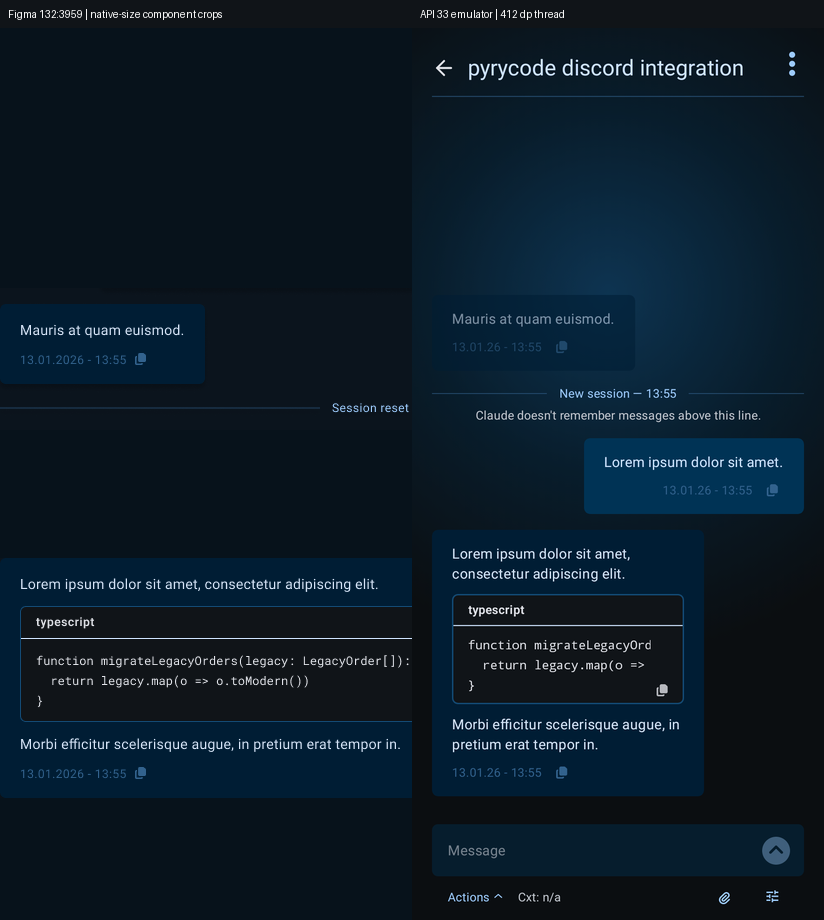
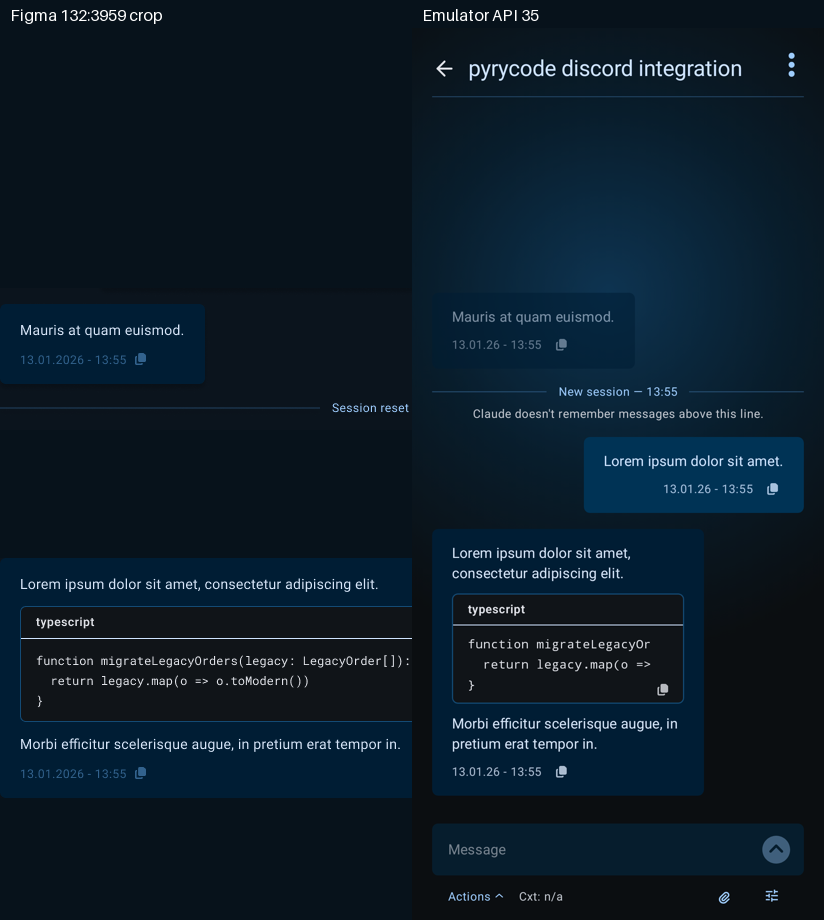
wip: checkpoint 1207 before blocker wait

diff --git a/app/src/sharedTest/java/de/pyryco/mobile/ui/conversations/thread/ThreadFrameCaptureTest.kt b/app/src/sharedTest/java/de/pyryco/mobile/ui/conversations/thread/ThreadFrameCaptureTest.kt
@@ -7,12 +7,16 @@ import androidx.compose.runtime.CompositionLocalProvider
 import androidx.compose.runtime.getValue
 import androidx.compose.runtime.mutableStateOf
 import androidx.compose.runtime.setValue
+import androidx.compose.ui.geometry.Offset
+import androidx.compose.ui.platform.ClipboardManager
+import androidx.compose.ui.platform.LocalClipboardManager
 import androidx.compose.ui.platform.LocalDensity
 import androidx.compose.ui.platform.LocalView
 import androidx.compose.ui.test.DeviceConfigurationOverride
 import androidx.compose.ui.test.ExperimentalTestApi
 import androidx.compose.ui.test.ForcedSize
 import androidx.compose.ui.test.assertIsDisplayed
+import androidx.compose.ui.test.click
 import androidx.compose.ui.test.getUnclippedBoundsInRoot
 import androidx.compose.ui.test.junit4.createComposeRule
 import androidx.compose.ui.test.onAllNodesWithText
@@ -21,6 +25,8 @@ import androidx.compose.ui.test.onNodeWithTag
 import androidx.compose.ui.test.onNodeWithText
 import androidx.compose.ui.test.performClick
 import androidx.compose.ui.test.performScrollTo
+import androidx.compose.ui.test.performTouchInput
+import androidx.compose.ui.text.AnnotatedString
 import androidx.compose.ui.unit.Density
 import androidx.compose.ui.unit.DpSize
 import androidx.compose.ui.unit.dp
@@ -37,6 +43,7 @@ import de.pyryco.mobile.data.repository.BoundaryReason
 import de.pyryco.mobile.data.repository.ThreadItem
 import de.pyryco.mobile.ui.theme.PyrycodeMobileTheme
 import kotlinx.datetime.Instant
+import org.junit.Assert.assertEquals
 import org.junit.Assert.assertTrue
 import org.junit.Rule
 import org.junit.Test
@@ -49,6 +56,19 @@ import java.util.TimeZone
 @RunWith(AndroidJUnit4::class)
 class ThreadFrameCaptureTest {
     @get:Rule val rule = createComposeRule()
+
+    private val clipboard =
+        object : ClipboardManager {
+            var copiedText: String? = null
+
+            override fun setText(annotatedString: AnnotatedString) {
+                copiedText = annotatedString.text
+            }
+
+            override fun getText(): AnnotatedString? = copiedText?.let(::AnnotatedString)
+
+            override fun hasText(): Boolean = copiedText != null
+        }
 
     private var state by mutableStateOf(ThreadUiState("frame", "pyrycode discord integration", isPromoted = true))
     private var thinking by mutableStateOf(false)
@@ -64,7 +84,10 @@ class ThreadFrameCaptureTest {
         rule.setContent {
             DeviceConfigurationOverride(DeviceConfigurationOverride.ForcedSize(DpSize(width.dp, height.dp))) {
                 val density = LocalDensity.current
-                CompositionLocalProvider(LocalDensity provides Density(density.density, fontScale)) {
+                CompositionLocalProvider(
+                    LocalDensity provides Density(density.density, fontScale),
+                    LocalClipboardManager provides clipboard,
+                ) {
                     PyrycodeMobileTheme(darkTheme = true) {
                         composeView = LocalView.current
                         ThreadScreen(
@@ -244,6 +267,11 @@ class ThreadFrameCaptureTest {
         assertTrue(back.right <= overflow.left)
         assertTrue(messageRegion.height > 0.dp)
         assertTrue(copy.left >= messageRegion.left && copy.right <= messageRegion.right)
+        // Tap outside the 16dp visual row: Compose must still route the pointer to copy at 1.5x text.
+        rule.onNodeWithContentDescription(string(R.string.cd_thread_copy_message)).performTouchInput {
+            click(Offset(center.x, bottom + 14.dp.toPx()))
+        }
+        assertEquals(message.message.content, clipboard.copiedText)
         capture("320x640-large-text")
         rule.onNodeWithContentDescription(string(R.string.cd_more_actions)).performClick()
         rule.onNodeWithText(string(R.string.thread_overflow_channel_info)).assertIsDisplayed()

diff --git a/app/src/main/java/de/pyryco/mobile/ui/conversations/components/MessageMetaRow.kt b/app/src/main/java/de/pyryco/mobile/ui/conversations/components/MessageMetaRow.kt
@@ -23,7 +23,6 @@ import androidx.compose.ui.semantics.Role
 import androidx.compose.ui.text.AnnotatedString
 import androidx.compose.ui.unit.dp
 import de.pyryco.mobile.R
-import de.pyryco.mobile.ui.theme.LocalStaticDarkPalette
 import kotlinx.datetime.Instant
 import kotlinx.datetime.TimeZone
 import kotlinx.datetime.toJavaLocalDate
@@ -35,13 +34,13 @@ import java.util.Locale
 private val MetaRowSpacing = 8.dp
 private val CopyGlyphWidth = 11.dp
 
-// Keep the visible meta row at the design's 16dp. The glyph's horizontal hit area grows to 23dp;
-// a taller target would add height to every bubble and shift the next row.
+// Keep the visible meta row at the design's 16dp. Compose expands clickable pointer hit testing
+// toward its minimum touch target without enlarging layout; a compact-width pointer test covers it.
 private val CopyTouchHorizontalPadding = 6.dp
 private val CopyTouchVerticalPadding = 2.dp
 
-// Other palettes retain the previous alpha-based contrast treatment. The fixed dark reference uses
-// `inversePrimary` directly for the designed #32628D tint.
+// The Figma inverse-primary tint has insufficient contrast on either fixed-dark bubble. Derive
+// de-emphasis from the host's M3 on-container role so both bubbles retain readable metadata.
 private const val META_CONTENT_ALPHA = 0.80f
 
 /**
@@ -133,12 +132,7 @@ internal fun MessageMetaRow(
     modifier: Modifier = Modifier,
 ) {
     // One colour for both children: the control inherits the label's tint through the ambient.
-    val metaColor =
-        if (LocalStaticDarkPalette.current) {
-            MaterialTheme.colorScheme.inversePrimary
-        } else {
-            LocalContentColor.current.copy(alpha = META_CONTENT_ALPHA)
-        }
+    val metaColor = LocalContentColor.current.copy(alpha = META_CONTENT_ALPHA)
     // Two `DateTimeFormatter`s are built per call, so hold the result across recompositions. Keyed on
     // the zone and locale as well as the instant: both are read here rather than passed in, and keying
     // on them keeps the cache honest instead of relying on a configuration change to rebuild the tree.

diff --git a/app/src/sharedTest/java/de/pyryco/mobile/ui/conversations/components/MessageBubblePaletteTest.kt b/app/src/sharedTest/java/de/pyryco/mobile/ui/conversations/components/MessageBubblePaletteTest.kt
@@ -13,6 +13,7 @@ import androidx.compose.runtime.mutableStateOf
 import androidx.compose.runtime.setValue
 import androidx.compose.ui.graphics.Color
 import androidx.compose.ui.graphics.compositeOver
+import androidx.compose.ui.graphics.luminance
 import androidx.compose.ui.platform.LocalConfiguration
 import androidx.compose.ui.platform.LocalView
 import androidx.compose.ui.semantics.SemanticsActions
@@ -29,6 +30,7 @@ import de.pyryco.mobile.data.model.Role
 import de.pyryco.mobile.ui.theme.PyrycodeMobileTheme
 import kotlinx.datetime.Instant
 import org.junit.Assert.assertEquals
+import org.junit.Assert.assertTrue
 import org.junit.Rule
 import org.junit.Test
 import org.junit.runner.RunWith
@@ -169,10 +171,18 @@ class MessageBubblePaletteTest {
         val timestamps = rule.onAllNodesWithText(" - ", substring = true, useUnmergedTree = true)
         assertEquals(3, timestamps.fetchSemanticsNodes().size)
         for (index in 0..2) {
+            val body = if (index == 0) userBody else assistantBody
             assertTextColor(
                 timestamps[index],
-                if (dark && !wallpaper) Color(0xFF32628D) else (if (index == 0) userBody else assistantBody).copy(alpha = 0.8f),
+                body.copy(alpha = 0.8f),
             )
+            if (dark && !wallpaper) {
+                val fill = if (index == 0) userFill else assistantFill
+                val foreground = body.copy(alpha = 0.8f).compositeOver(fill).luminance()
+                val background = fill.luminance()
+                val contrast = (foreground + 0.05f) / (background + 0.05f)
+                assertTrue("metadata contrast must be at least 4.5:1; got $contrast", contrast >= 4.5f)
+            }
         }
     }
 

diff --git a/docs/specs/architecture/1207-thread-message-presentation.md b/docs/specs/architecture/1207-thread-message-presentation.md
@@ -79,3 +79,4 @@ Pending documentation stage: update `docs/knowledge/features/message-bubble.md` 
 - While implementing code typography, the shared `CodeBlock` default proved to be used by the Markdown reader and tool output. The thread-specific 12 sp / 20 sp code role now comes from `MarkdownTextStyle.code` (default for thread messages); `MarkdownReaderScreen` explicitly retains its prior `bodyMedium` code role, and `ToolCallRow` keeps its own `bodySmall` argument. This adds `MarkdownReaderScreen.kt` as a fifth production file without changing parser or copy behavior.
 - The first emulator comparison showed the user bubble's literal blank line occupying a 20 sp text line where Figma separates plain-text paragraphs by 12 dp. `UserMessageBubble` now emits each blank-line-delimited paragraph as a plain `Text` child inside the existing spaced column. Single line breaks remain literal and `MessageMetaRow` still copies the original full source.
 - A focused 320 dp / 1.5× emulator check exposed timestamp wrapping that pushed the copy control beyond the bubble. `MessageMetaRow` now reserves the glyph, touch padding and gap before measuring the timestamp. The timestamp may wrap at compact widths while the copy control remains visible; the 412 dp row stays on one line and short bubbles still hug content.
+- Verifier review found that the Figma `inversePrimary` metadata tone provides only about 2–3:1 contrast against the fixed-dark bubble fills. `MessageMetaRow` instead derives its 80% metadata tint from the enclosing `Surface`'s M3 on-container role, giving the 12 sp timestamp at least 4.5:1 on both fills. This is a deliberate accessibility deviation from node `132:4379`; the copy glyph shares the readable tint. The visible 16 dp row remains fixed while Compose's clickable hit testing expands toward its minimum touch target. A 320 dp / 1.5× pointer tap beyond the visible row proves the effective target still copies the source text without taking the adjacent menu action.
